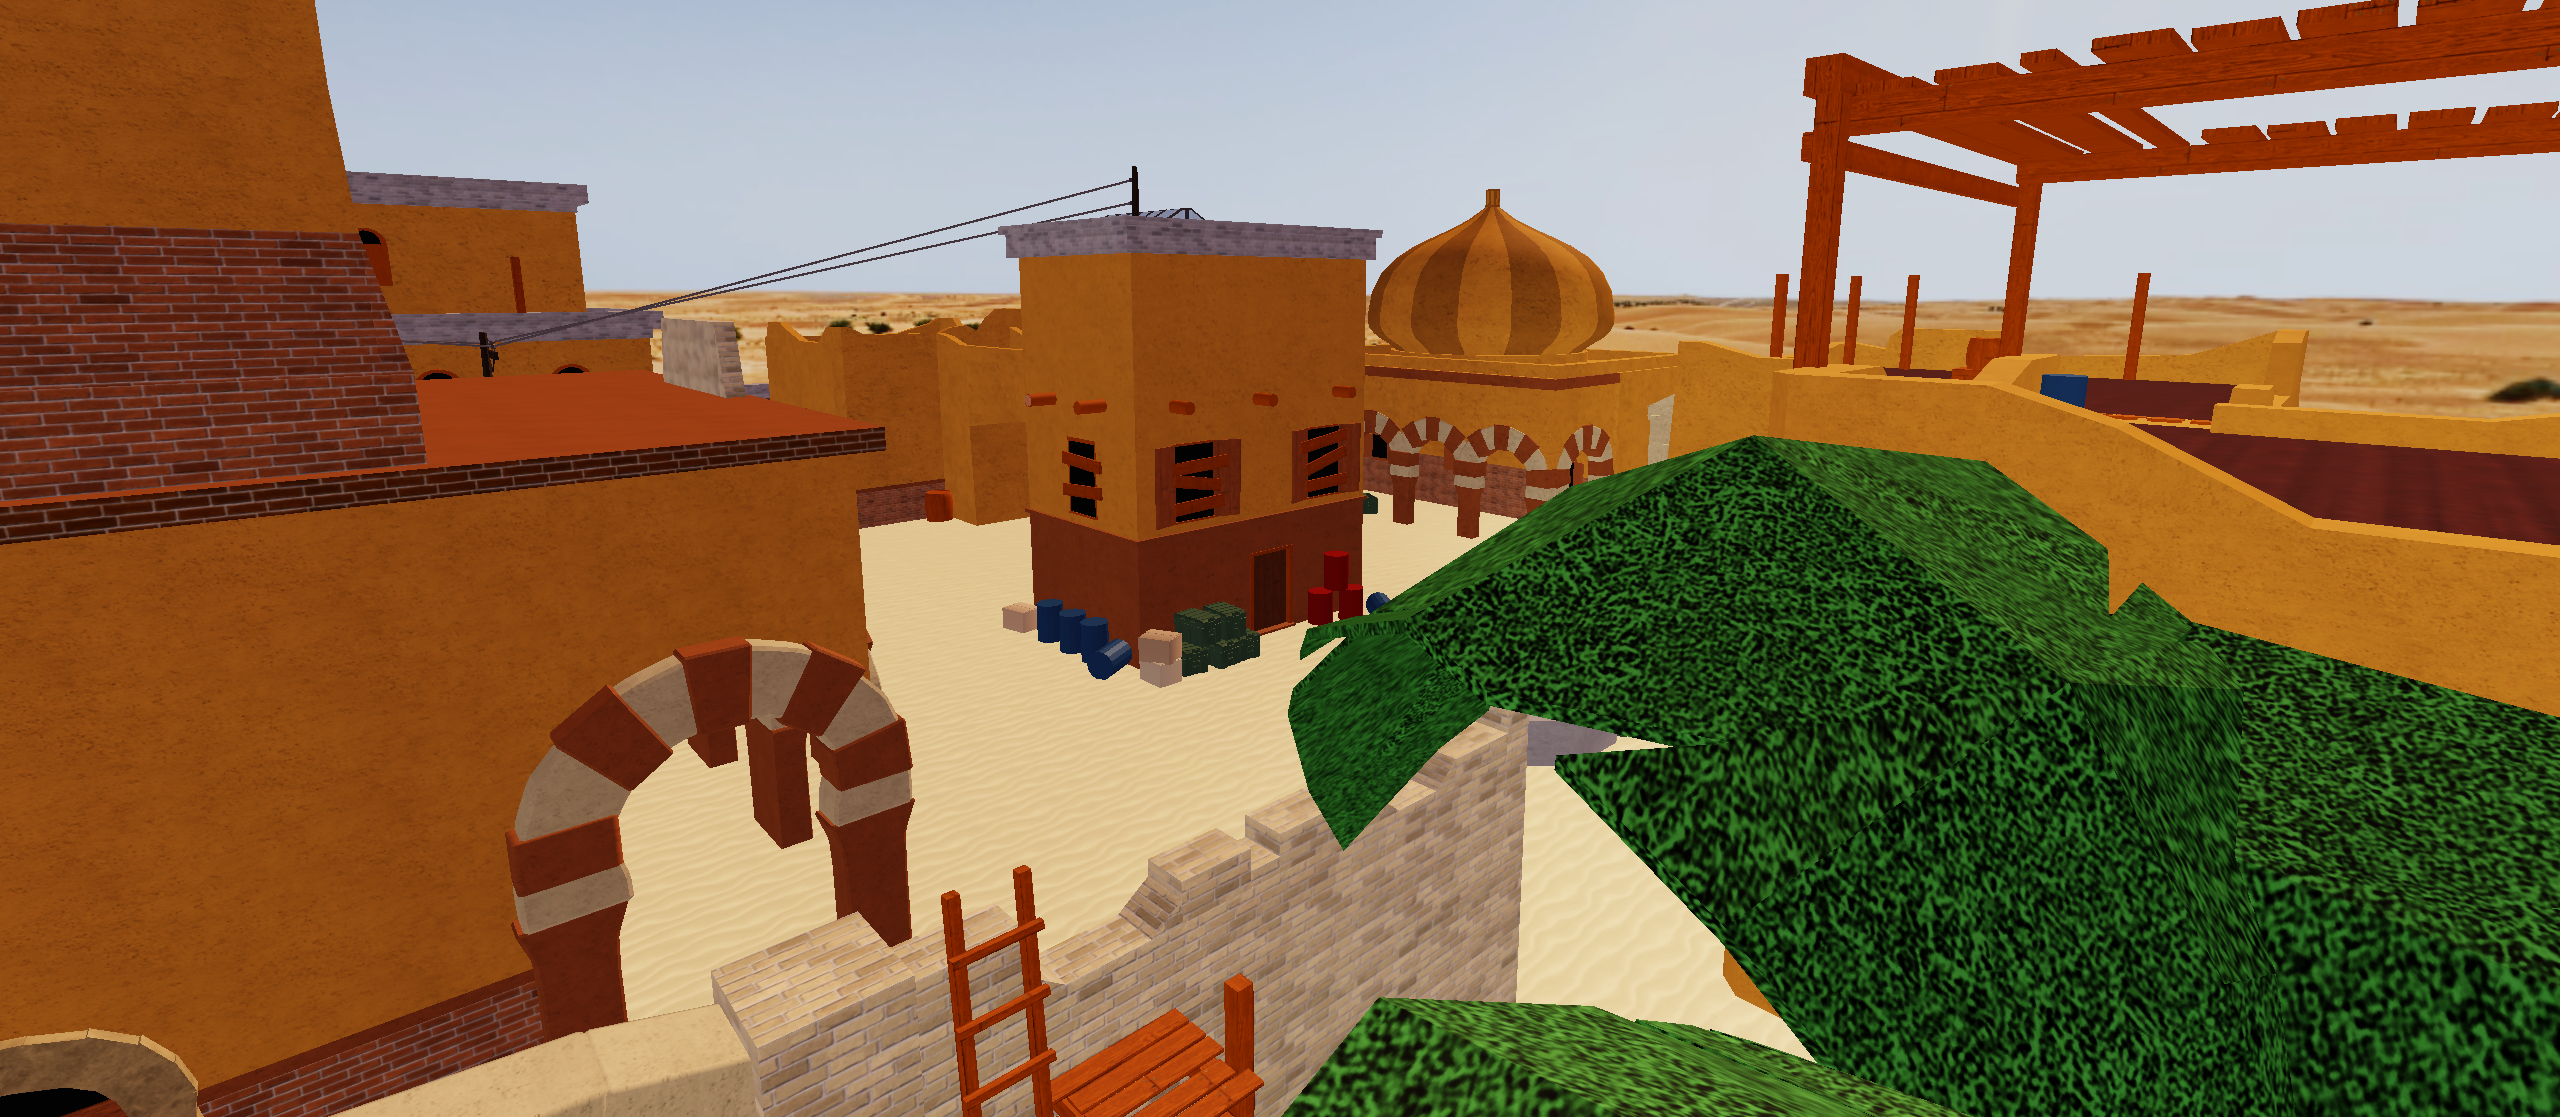
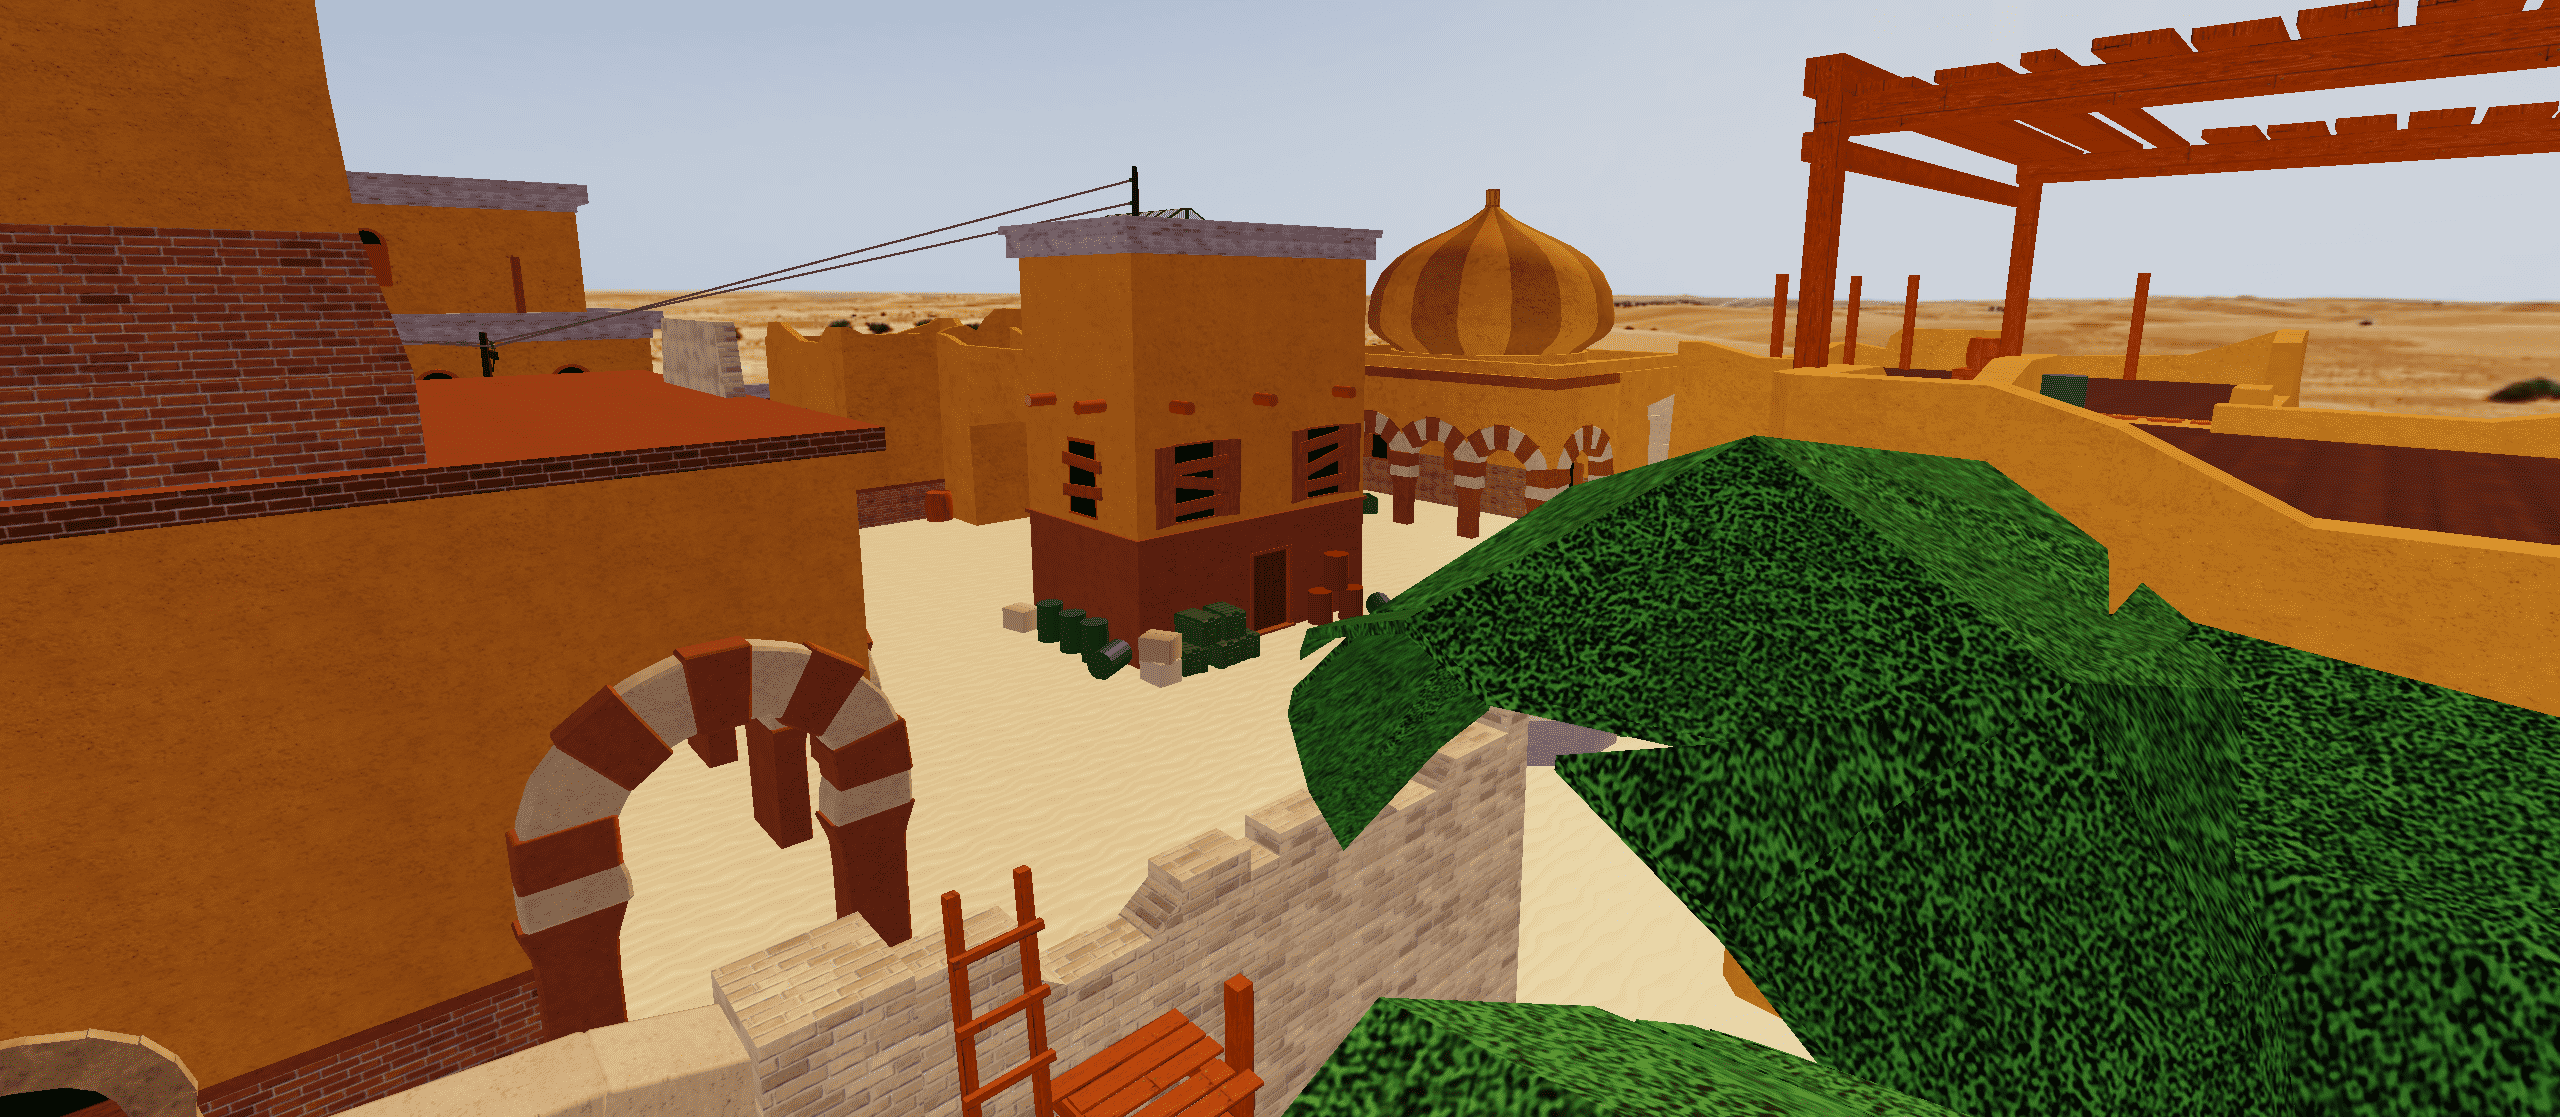
Optimized Background Image

diff --git a/style.css b/style.css
@@ -9,6 +9,9 @@ body {
 	background-image: url('background.png');
 	background-repeat: no-repeat;
 	background-attachment:fixed;
+	background-size: cover;  /* makes sure the image always covers the screen */
+    background-attachment: fixed; /* keeps the image from scrolling */
+    background-color: transparent; /* prevents white fallback */
 }
 
 .backgroundDiv {
